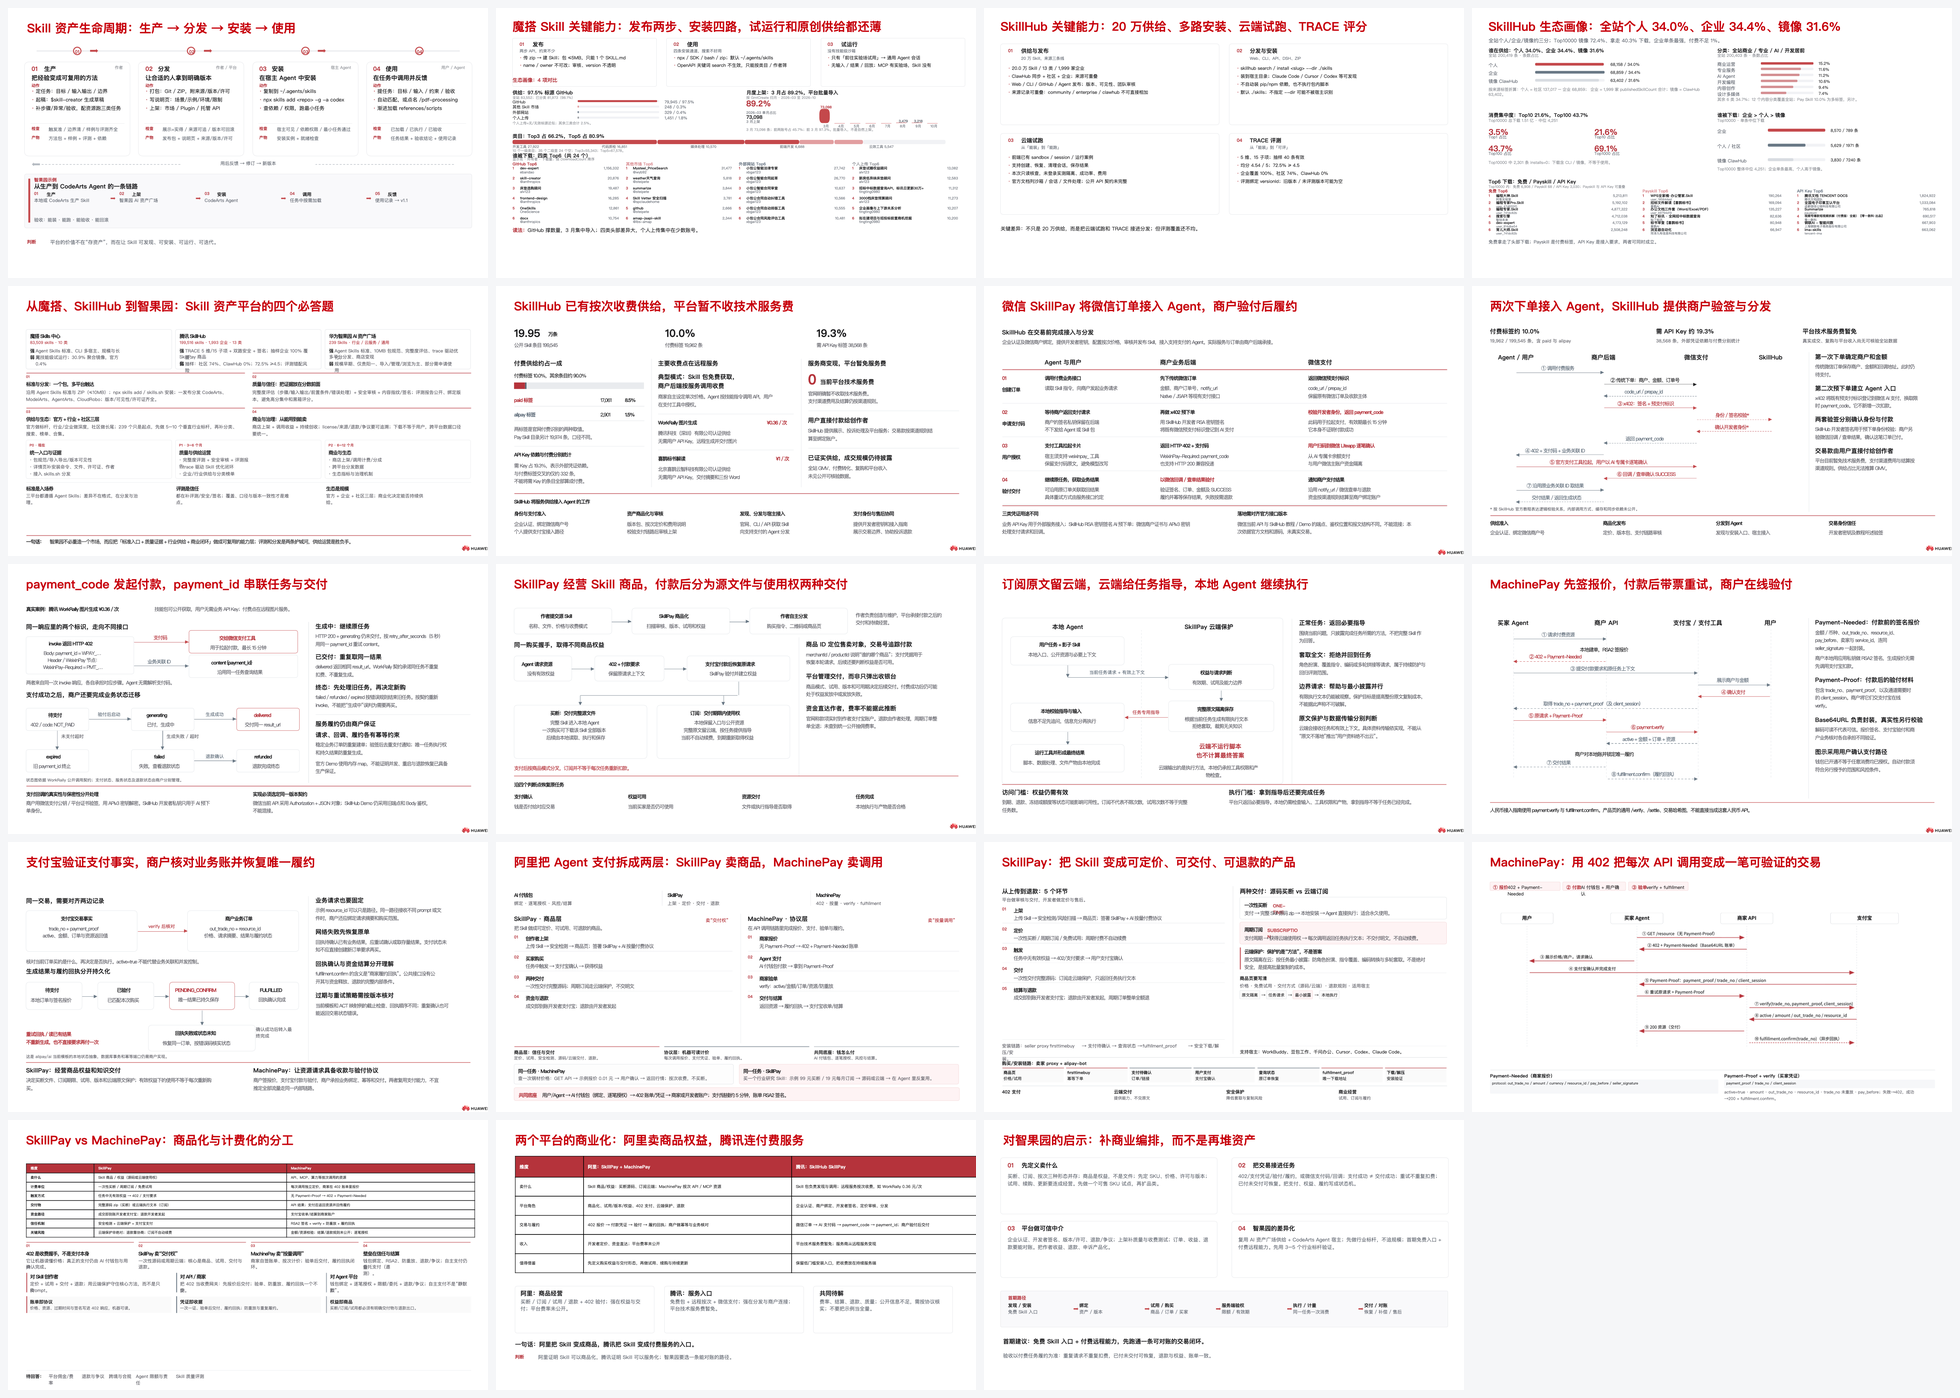
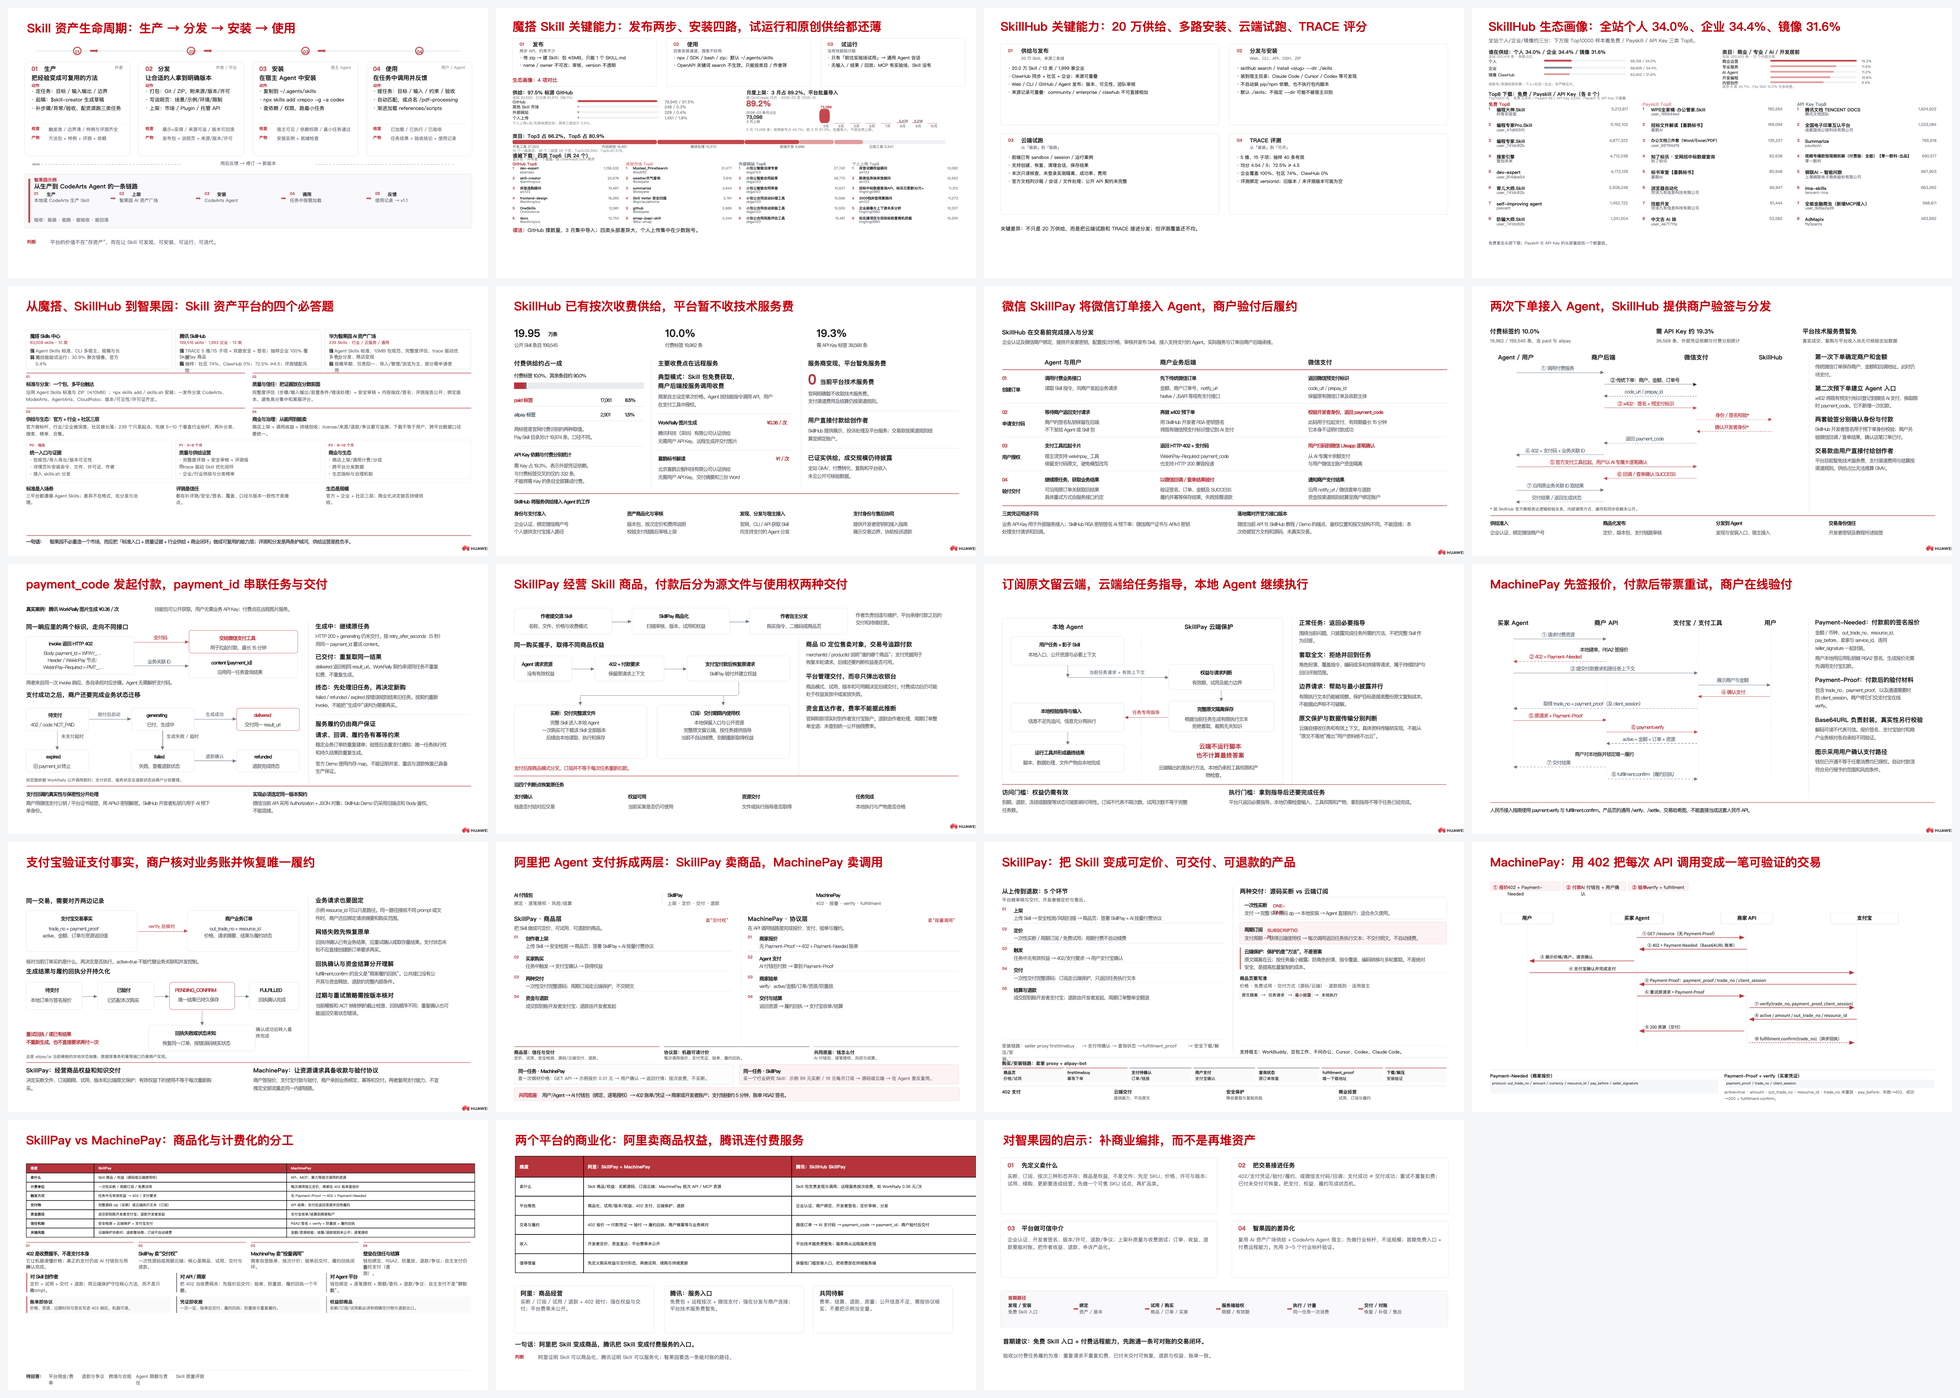
Replace SkillHub lower blocks with three-column Top8 lists

Changed region(s): [[0.7469, 0.0308, 0.9648, 0.1845]]

diff --git a/skill-final-v1-manifest.md b/skill-final-v1-manifest.md
@@ -14,7 +14,7 @@
 - **Skill 资产生命周期页重做为第 1 页**：生产 / 分发 / 安装 / 使用四段，每段给出可执行动作、检查点与产物，并保留闭环回线；结合智果园示例（AI 资产广场上架分发、CodeArts Agent 安装使用）。原第 5 页删除，总页数 19。
 - **第一页按 `skill-lifecycle-summary.md` 的“关键动作”重新核对**：每段只把“动作”放入动作层，检查点与产物另列；生产段把“定任务 / 写方法 / 配资源并验证”拆开，边界放入“定任务”和检查点，样例与评测记录放入产物，不再把“留样例和边界”当作与前两步并列的第三个动作。动作层补入 `$skill-creator`、Git/ZIP、`npx skills add`、`/pdf-processing` 等可执行动作；`$skill-creator` 作为一条起稿路径，不写成唯一方式。
 - **最后两页按统一版式重排**：第 18 页先总结阿里/腾讯两条商业化路径（对比表 + 三点判断），第 19 页给出智果园的四条启示、首期路径与验收口径。
-- **SkillHub 从 3 页合并为 2 页**：第 3 页“关键能力”（供给与发布 / 分发安装 / 云端试跑 / TRACE）；第 4 页“生态画像”：供给/分类看全站，消费与“谁被下载”中位看 Top10000；新增免费 / Payskill / API Key 三类 Top6 下载榜；个人/企业为按来源标签折算，Top10000 不等于全站。
+- **SkillHub 从 3 页合并为 2 页**：第 3 页“关键能力”（供给与发布 / 分发安装 / 云端试跑 / TRACE）；第 4 页“生态画像”：供给/分类看全站，消费与“谁被下载”中位看 Top10000；改为免费 / Payskill / API Key 三列 Top8 下载榜；移除消费集中度与谁被下载两块；个人/企业为按来源标签折算，Top10000 不等于全站。
 - **魔搭合并为一页**：上半部分是“关键能力洞察”（发布 / 使用 / 试运行），下半部分是“生态画像”的 4 项对比：来源结构（GitHub / 其他市场 / 外部网站 / 个人上传）/ 月度上架（集中导入）/ 类目分布 / 四类来源 Top6（24 个，显示名/所有者/下载量）；已按 2026-10-24 全量 source_url 统计更新。
 - **标题已回退**：恢复上一版标题；第一页的动作 / 检查 / 产物内容保留。
 - 例外：KPI 数字保留展示字号；6.5–9.5 pt 的图注、单位、表注保留原字号，避免密集卡片溢出。若要求所有文字严格 10/12，需要重排或拆页。
